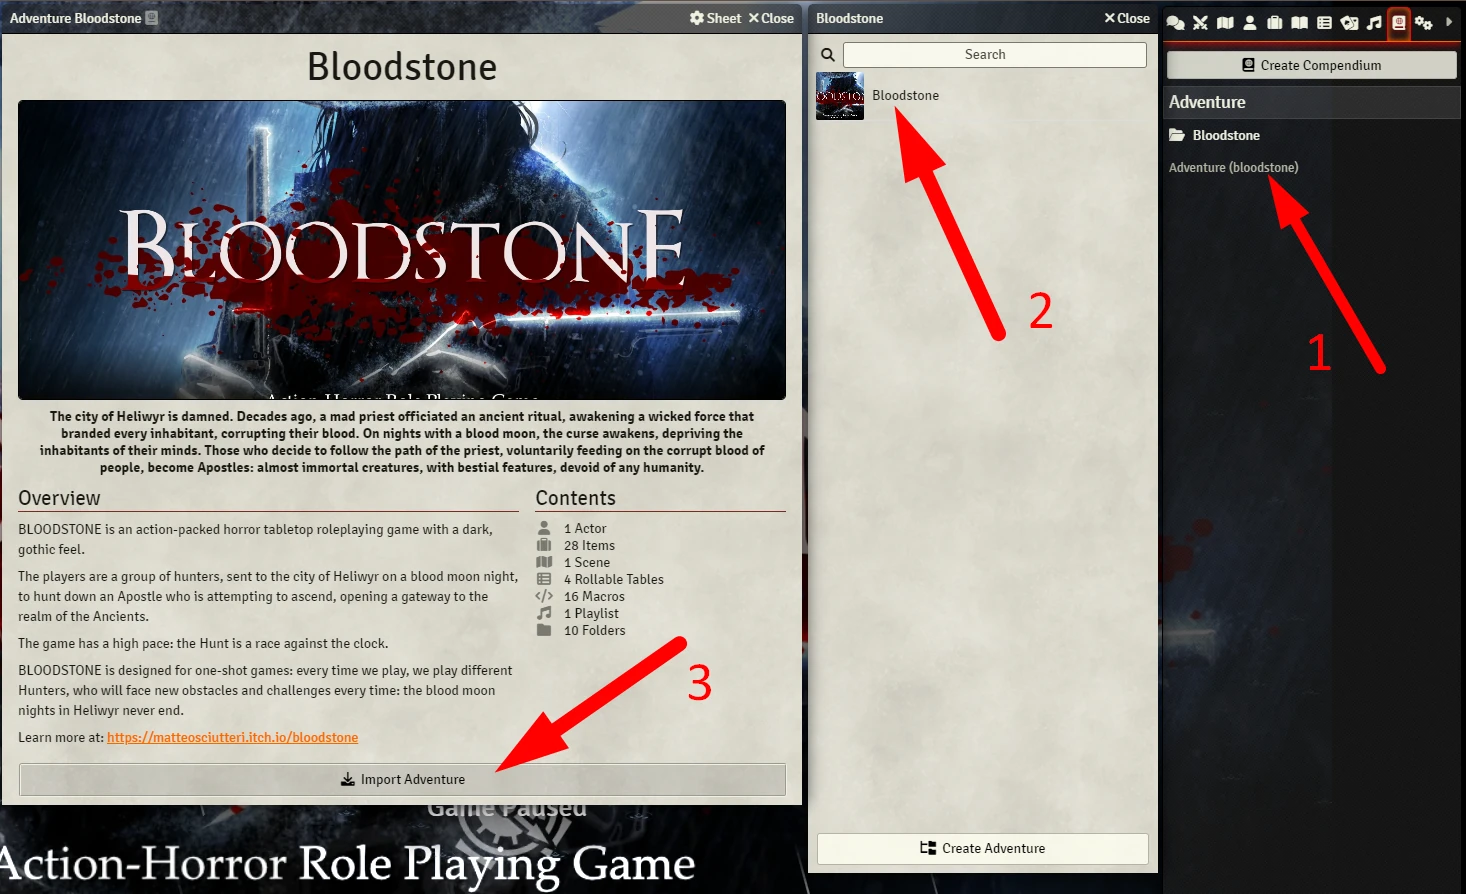
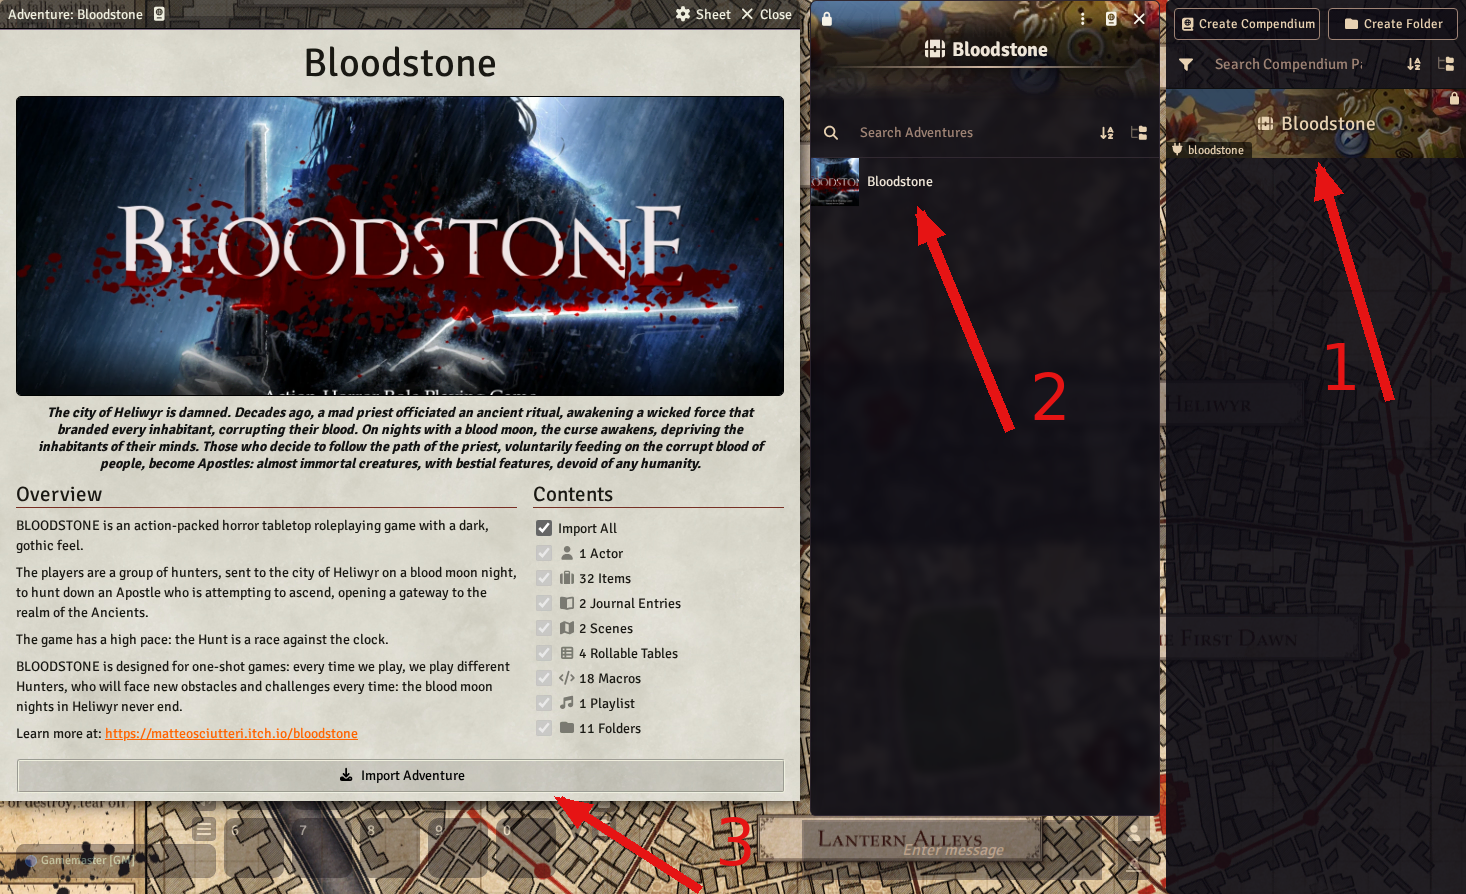
Rewrite the README for the TAF version of Bloodstone
The module now needs Text-Based Actors on Foundry v14 instead of Simple Worldbuilding and the
Forged in the Dark Roller, installs from the GitHub release manifest, and ships the Heliwyr map;
the documentation, screenshots and asset credits say so.

diff --git a/README.md b/README.md
@@ -7,12 +7,14 @@ The players are a group of hunters, sent to the city of Heliwyr on a blood moon 
 The game has a high pace: the Hunt is a race against the clock. 
 BLOODSTONE is designed for one-shot games: every time we play, we play different Hunters, who will face new obstacles and challenges every time: the blood moon nights in Heliwyr never end.
 
+This module brings Bloodstone to Foundry VTT on the Text-Based Actors system: a Hunter with roll buttons, the gear, the player and GM journals for game version 1.4, the four GM tables, the map of Heliwyr, and clocks through Global Progress Clocks.
+
 <table>
 <thead>
   <tr>
     <th>
       <p align="center">
-        <img width="900" src="docs/docs-overview.webp">
+        <img width="900" src="docs/docs-overview.webp" alt="A Hunter sheet, the player journal on the Action Roll page, the Action Roll dialog, its result in the chat and the Night's Clock, over the map of Heliwyr">
       </p>
     </th>
   </tr>
@@ -20,29 +22,33 @@ BLOODSTONE is designed for one-shot games: every time we play, we play different
 </table>
 
 # Documentation
-You need **Simple Worldbuilding System** to use this module.
-
-You also need **Forged in the Dark Roller**.
+You need Foundry VTT v14, the Text-Based Actors (TAF) system 3.3.0 and the Global Progress Clocks module. Dice So Nice and Dice Tray are optional: the first shows the dice rolling in 3D, the second adds dice buttons below the chat.
 
 You need the [PDF](https://matteosciutteri.itch.io/bloodstone) to play.
 
-After have everything create a world, activate the modules. 
-
-You now can import a Actor Sheet model and gear and other items. **Check the compendiums.** 
+1. Create a world with the Text-Based Actors system and activate Bloodstone and Global Progress Clocks.
+2. In the sidebar, open **Compendium Packs** and then the **Bloodstone** pack.
+3. Open the Bloodstone adventure and click **Import Adventure**.
 
 <table>
 <thead>
   <tr>
     <th>
       <p align="center">
-        <img width="800" src="docs/docs-import.webp">
+        <img width="800" src="docs/docs-import.webp" alt="The Compendium Packs tab, the Bloodstone pack and the adventure window with its Import Adventure button, numbered 1 to 3">
       </p>
     </th>
   </tr>
 </thead>
 </table>
 
-There is journal **Read Me** with more instructions. 
+The import brings the Hunter, 32 items (origins, memories, attire, trick weapons, firearms, tools and bandolier items), the Bloodstone - Player and Bloodstone - GM journals, a cover scene and the map of Heliwyr, four roll tables for the GM, the roll and clock macros, and a reading of the Oath of Hunters.
+
+Give each player a copy of the Hunter. On the Attributes tab, the **Roll** button beside Prowess, Resolve and Wit opens the Action Roll. On the Items tab, the **Use** button beside a trick weapon or a firearm rolls it. The Resist macro rolls Resist, and the macros 0d to 9d roll that many dice and keep the highest. The chat card reads the result and says what to mark; the sheet is not changed for you.
+
+TAF gives every new actor the world's default attributes. To make them Bloodstone's, open the Hunter as GM, open the sheet's header menu (⋮) and choose **Save Attributes as Defaults**.
+
+The Clocks macro folder holds the Night's Clock (8 segments) and clocks of 4, 6 and 8 segments. Each macro adds its clock to Global Progress Clocks. The Bloodstone - GM journal explains when to use them.
 
 # Installation
 
@@ -50,13 +56,19 @@ There is journal **Read Me** with more instructions.
 [![Buy Me a Coffee](https://img.shields.io/badge/Buy_Me_a_Coffee-Donate-FFDD00?style=for-the-badge&logo=buy-me-a-coffee&logoColor=black)](https://buymeacoffee.com/mestredigital) [![More Modules](https://img.shields.io/badge/Foundry%20VTT-More%20Modules-red?style=for-the-badge&logo=gamepad)](https://mestredigital.online/pages/projetos-en)
 
 ## Installation
-Search **Bloodstone** at Foundry VTT modules.
+Search **Bloodstone** in the Foundry VTT module browser.
 
-## Manual Installation
-Manifest: https://raw.githubusercontent.com/brunocalado/bloodstone/main/module.json
+## Manual installation
+Paste this manifest link in the module browser:
+
+```
+https://github.com/brunocalado/bloodstone/releases/latest/download/module.json
+```
 
 # About
 If you want to learn about this game go to [Bloodstone](https://matteosciutteri.itch.io/bloodstone) and get the PDFs.
+
+This module follows version 1.4 of the game.
 
 # Changelog
 Learn about changes at [CHANGELOG](CHANGELOG.md).
@@ -70,8 +82,7 @@ If I add any code it'll be under [LICENSE](LICENSE).
 
 # Assets
 - Oath - PTBT -> Oath of Hunter - Bloodstone © 2022 by Mestre Digital is licensed under CC BY-SA 4.0
-- clock skull -> https://pixabay.com/service/license/
-- clocks -> Some assets were taken from here (thank you timdenee and joesinghaus): https://github.com/joesinghaus/Blades-in-the-Dark
+- Map of Heliwyr -> by Matteo Sciutteri, licensed under CC BY-NC-SA 4.0: https://matteosciutteri.itch.io/bloodstone
 
 # Mestre Digital
 About this module creator: https://sites.google.com/view/mestredigitalmodules
